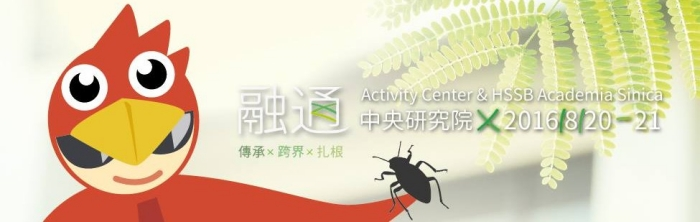
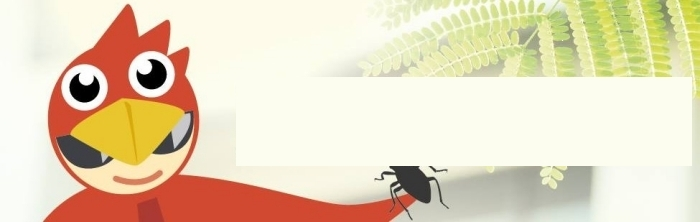
update model

Changed region(s): [[0.33, 0.3243, 0.99, 0.7568], [0.54, 0.6486, 0.63, 0.7568]]

diff --git a/00/index.html b/00/index.html
@@ -1,82 +1,105 @@
 <div style="max-width: 700px; margin: 0 auto; padding: 20px; "><br>
 	<div style="height: 80px; border-bottom: solid 1px; margin-bottom: 10px; ">
-		<div style="float: left; max-width: 347px; ">
-			<p><img src="https://googledrive.com/host/0B51pFKc61f68c0Y0aHVGYVZZNGs" width="100%" alt=""/></p>
+		<div style="float: left; width: 700px; height: 222px; margin-bottom: 20px; ">
+			<p><img src="img/banner.jpg" width="100%" alt=""/></p>
+			<p style="margin-top: -160px; text-align: right; ">
+			<font style="color: #517862; font-size: 36pt; ">啄又逢源 </font>
+			<font style="color: #749875; font-size: 18pt; margin-right: 10px; ">會前快報 第 xx 期</font><br />
+			<font style="color: #AACA86; font-size: 10pt; ">2016 年 x 月 xx 日 發行</font>
+			</p>
 		</div>
-  		<div style="float: right; text-align: right; ">
-			<p style="font-size: 10pt; line-height: 2pt; ">會前 01 號</p>
-			<p style="font-size: 10pt; line-hieght: 2pt; "><a href="http://goo.gl/bLxcyu" target="_blank">如果您無法觀看本電子報，煩請您到此觀看線上網頁版</a></p>
-			<p style="font-size: 10pt; margin-bottom: 2em; line-height: 12pt; ">
+  		<div style="float: right; text-align: right; margin-top: -40px; ">
+			<p style="font-size: 10pt; ">
 				 | <a href="https://www.facebook.com/coscup" target="new">Facebook</a>
 				 | <a href="https://twitter.com/coscup" target="new">twitter</a>
 				 | <a href="http://www.plurk.com/coscup" target="new">Plurk</a>
 				 | <a href="http://coscup.org/" target="new">coscup.org</a>
 				 | 
 			</p>
+			<p style="font-size: 10pt;"><a href="#" target="_blank">如果您無法觀看本電子報，煩請您到此觀看線上網頁版</a></p>
 		</div>
 	</div>
-	<div><img src="https://googledrive.com/host/0B51pFKc61f68SVpPZ2RibFlsS00" width="100%" alt=""/></div>
-	<h1 style="font-size: 22pt; text-align: center; ">十週年：開放文化</h1>
+	<div><img src="img/focus.jpg" width="100%" alt=""/></div>
+	<h1 style="font-size: 22pt; text-align: center; ">焦點新聞焦點新聞焦點新聞焦點新聞</h1>
 	<p style="font-size: 12pt; line-height: 20pt; ">
-		2006 年的 COSCUP，我們從 coder-user 直接接觸的 Open Source 開始，走過了 Device、Web、Mobile、Goverment、Data……，直到了第十年，我們要來談開放文化。<br />
-		十年的時間，開放源碼運動在所有貢獻者的努力下已然開花結果，而下一個十年，COSCUP 將帶領各位更進一步的探討「開源」的核心價值！哪裡是未曾觸及的呢？在這一年，讓我們一起立下新的標竿，成為開放文化的探索者吧！
+	兩百到四百字兩百到四百字兩百到四百字兩百到四百字兩百到四百字兩百到四百字兩百到四百字兩百到四百字兩百到四百字兩百到四百字兩百到四百字兩百到四百字兩百到四百字兩百到四百字兩百到四百字兩百到四百字兩百到四百字兩百到四百字兩百到四百字兩百到四百字兩百到四百字兩百到四百字兩百到四百字兩百到四百字兩百到四百字兩百到四百字兩百到四百字兩百到四百字兩百到四百字兩百到四百字兩百到四百字兩百到四百字兩百到四百字兩百
 	</p>
 	<hr style="margin: 10px; "/>
-	<h1 style="font-size: 22pt; text-align: center; ">議程公佈囉！精彩、豐富，各種想聽！</h1>
+	<h1 style="font-size: 22pt; text-align: center; ">重要消息重要消息重要消息重要消息</h1>
 	<p style="font-size: 12pt; line-height: 20pt; ">
-		今年議程多元豐富，議程有著社會經驗分享、開放政府、法律議題、講個秘訣、Workshop工作坊等大量議程，不論你是什麼職業，來到這裡一定可以找到你喜歡的議程，交到相同嗜好的朋友。如果看了議程表都沒有喜歡的議程，今年也有開放Unconference/開放議程，歡迎去開設喜歡的議程，號召相同志向的同伴讓我們的議程更加多元完整。COSCUP誠摯地邀請您踴躍參與。<br />
-		<br />
-		立即前往看議程：<a href="http://goo.gl/KhNAzd" target="_blank">http://coscup.org/2015/zh-tw/program</a><br />
-		立即前往看Workshop：<a href="http://goo.gl/y6uO7s" target="_blank">http://coscup2015.kktix.cc/events/workshop2015/</a>
+兩百到四百字兩百到四百字兩百到四百字兩百到四百字兩百到四百字兩百到四百字兩百到四百字兩百到四百字兩百到四百字兩百到四百字兩百到四百字兩百到四百字兩百到四百字兩百到四百字兩百到四百字兩百到四百字兩百到四百字兩百到四百字兩百到四百字兩百到四百字兩百到四百字兩百到四百字兩百到四百字兩百到四百字兩百到四百字兩百到四百字兩百到四百字兩百到四百字兩百到四百字兩百到四百字兩百到四百字兩百到四百字兩百到四百字兩百到四百字兩百到四百字兩百到四百字兩百到四百字兩百到四百字兩百到四百字兩百到四百字兩百到四百字兩百到四百字兩百到四百字兩百到四百字兩百到四百字兩百到四百字兩百到四百字兩百到四百字兩百到四百字兩百到四百字兩百到四百字兩百到四百字兩百到四百字兩百到四百字兩百到四百字兩百到四百字兩百到四百字兩百到四百字兩百到四百字兩百到四百字兩百到四百字兩百到四百字兩百到四百字兩百到四百字兩百到四百字兩百到四百字兩百到四	
 	</p>
 	<hr style="margin: 10px; " />
-	<h1 style="font-size: 22pt; text-align: center; ">精選議程</h1>
+	<h1 style="font-size: 22pt; text-align: center; ">精選議程報給你知</h1>
 	<table style="border: 0px; margin-bottom: 20px; "><tr>
-		<td style="padding: 5px; "><img src="https://googledrive.com/host/0B51pFKc61f68T3dMTE1jdnR0QTQ" width="178px" alt=""/></td>
+		<td style="padding: 5px; "><img src="img/speaker1.jpg" width="178px" alt=""/></td>
 		<td>
-			<h2 style="font-size: 17pt; ">jserv - 「封麥」演說：台灣開放原始碼生態圈回顧</h2>
+			<h2 style="font-size: 18pt; ">Speaker - TopicTopicTopicTopicTopic</h2>
 			<p style="font-size: 12pt; line-height: 20pt; ">  
-				什麼？！宅色夫 ( jserv ) 也要「封麥」了？！<br />
-				一個能夠連續 10 年在 COSCUP 分享心得的講者，決定在「封麥」前，簡短回顧台灣開放原始碼生態圈的轉變，以及台灣人在國際開放原始碼專案的投入狀況。<br />
-				身為開源人，這場演講真的錯過可惜！
+			每行至多三十一個全型字元，盡量不要超過八行，也就是兩百五十字。<br />
+			每行至多三十一個全型字元，盡量不要超過八行，也就是兩百五十字。<br />
+			每行至多三十一個全型字元，盡量不要超過八行，也就是兩百五十字。<br />
+			每行至多三十一個全型字元，盡量不要超過八行，也就是兩百五十字。<br />
+			每行至多三十一個全型字元，盡量不要超過八行，也就是兩百五十字。<br />
+			每行至多三十一個全型字元，盡量不要超過八行，也就是兩百五十字。<br />
+			每行至多三十一個全型字元，盡量不要超過八行，也就是兩百五十字。<br />
+			每行至多三十一個全型字元，盡量不要超過八行，也就是兩百五十字。
 			</p>
 		</td>
 	</tr></table>
 	<table style="border: 0px; margin-bottom: 20px; "><tr>
 		<td>
-			<h2 style="font-size: 18pt; ">  clkao - g0v 村情咨文：跨界元年</h2>
+			<h2 style="font-size: 18pt; ">Speaker - TopicTopicTopicTopicTopic</h2>
 			<p style="font-size: 12pt; line-height: 20pt; ">  
-				高村長從2014年開始的村情咨文堂堂邁入第二年！<br />
-				過去一年來 g0v 的進展和成果十分豐碩。<br />
-				一起來看看 g0v 是怎麼讓開放協作的精神逐漸為更多 NGO 與政府單位接受，並且也開始更頻繁的和開放社群互動。<br />
-				身為鄉民的你/妳，怎麼可以不參加？ <br />
-				還沒成為鄉民的你/妳，快來一起加入 g0v 的行列吧！
+			每行至多三十一個全型字元，盡量不要超過八行，也就是兩百五十字。<br />
+			每行至多三十一個全型字元，盡量不要超過八行，也就是兩百五十字。<br />
+			每行至多三十一個全型字元，盡量不要超過八行，也就是兩百五十字。<br />
+			每行至多三十一個全型字元，盡量不要超過八行，也就是兩百五十字。<br />
+			每行至多三十一個全型字元，盡量不要超過八行，也就是兩百五十字。<br />
+			每行至多三十一個全型字元，盡量不要超過八行，也就是兩百五十字。<br />
+			每行至多三十一個全型字元，盡量不要超過八行，也就是兩百五十字。<br />
+			每行至多三十一個全型字元，盡量不要超過八行，也就是兩百五十字。
 			</p>
 		</td>
-		<td style="padding: 5px; "><img src="https://googledrive.com/host/0B51pFKc61f68ZjQ4R3Q0Qnk3b1k" width="178px" alt=""/></td>
+		<td style="padding: 5px; "><img src="img/speaker2.jpg" width="178px" alt=""/></td>
 	</tr></table>
 	<hr style="margin: 10px; " />
-	<a href="http://goo.gl/KhNAzd" target="_blank">點我看更多今年議程</a>
+	<a href="#" target="_blank">點我看更多今年議程</a>
 	<h1 style="font-size: 22pt; text-align: center; ">贊助單位</h1>
 	<table style="border: 0px; margin-bottom: 20px; "><tr>
-		<td style="padding: 5px; "><img src="https://googledrive.com/host/0B51pFKc61f68NmtseXVMUVc1cjA" width="178px" alt=""/></td>
+		<td style="padding: 5px; "><img src="img/sponsor1.jpg" width="178px" alt=""/></td>
 		<td>
-			<h2 style="font-size: 18pt; ">Appier</h2>
+			<h2 style="font-size: 18pt; ">單位名稱單位名稱單位名稱單位名稱</h2>
 			<p style="font-size: 12pt; line-height: 20pt; ">
-				運用人工智慧與巨量數據，Appier 是一跨螢行銷解決方案的科技公司。成立於 2012 年，總部位於台北，在全球各地設有據點，投資人包括紅杉資本，Appier 透過尖端科技協助客戶達成行銷目標，並在全球市場中獲得最佳投資報酬率。<br />
-				Appier網站：<a href="http://goo.gl/scaXad" target="_blank">http://www.appier.com/zh/ </a>
+			每行至多三十一個全型字元，盡量不要超過八行，也就是兩百五十字。<br />
+			每行至多三十一個全型字元，盡量不要超過八行，也就是兩百五十字。<br />
+			每行至多三十一個全型字元，盡量不要超過八行，也就是兩百五十字。<br />
+			每行至多三十一個全型字元，盡量不要超過八行，也就是兩百五十字。<br />
+			每行至多三十一個全型字元，盡量不要超過八行，也就是兩百五十字。<br />
+			每行至多三十一個全型字元，盡量不要超過八行，也就是兩百五十字。<br />
+			每行至多三十一個全型字元，盡量不要超過八行，也就是兩百五十字。<br />
+			每行至多三十一個全型字元，盡量不要超過八行，也就是兩百五十字。
 			</p>
-			<p style="font-size: 12pt; line-height: 20pt; "><a href="http://goo.gl/bLxcyu" target="_blank">Read More...</a></p>
+			<p style="font-size: 12pt; line-height: 20pt; "><a href="#" target="_blank">Read More...</a></p>
 		</td>
 	</tr></table>
 	<table style="border: 0px; margin-bottom: 20px; "><tr>
-		<td style="padding: 5px; "><img src="https://googledrive.com/host/0B51pFKc61f68OUlrOVB5d29jZ2c" width="178px" alt=""/></td>
+		<td style="padding: 5px; "><img src="img/sponsor2.jpg" width="178px" alt=""/></td>
 		<td>
-			<h2 style="font-size: 18pt; ">感謝白銀級贊助夥伴</h2>
-			<p style="font-size: 12pt; line-height: 20pt; ">祐生研究基金會、慧邦科技（神來也） 一直都是支持 COSCUP 的好夥伴，感謝他們收到團隊的企畫後立即回覆要繼續支持第十年的 COSCUP！</p>
-			<p style="font-size: 12pt; line-height: 20pt; "><a href="http://goo.gl/bLxcyu" target="_blank">Read More...</a></p>
+			<h2 style="font-size: 18pt; ">單位名稱單位名稱單位名稱單位名稱</h2>
+			<p style="font-size: 12pt; line-height: 20pt; ">
+			每行至多三十一個全型字元，盡量不要超過八行，也就是兩百五十字。<br />
+			每行至多三十一個全型字元，盡量不要超過八行，也就是兩百五十字。<br />
+			每行至多三十一個全型字元，盡量不要超過八行，也就是兩百五十字。<br />
+			每行至多三十一個全型字元，盡量不要超過八行，也就是兩百五十字。<br />
+			每行至多三十一個全型字元，盡量不要超過八行，也就是兩百五十字。<br />
+			每行至多三十一個全型字元，盡量不要超過八行，也就是兩百五十字。<br />
+			每行至多三十一個全型字元，盡量不要超過八行，也就是兩百五十字。<br />
+			每行至多三十一個全型字元，盡量不要超過八行，也就是兩百五十字。
+			</p>
+			<p style="font-size: 12pt; line-height: 20pt; "><a href="#" target="_blank">Read More...</a></p>
 		</td>
 	</tr></table>
 	<hr />
-	<p style="font-size: 10pt; line-height: 14pt; text-align: center; ">電子報發行單位：COSCUP 2015 籌備團隊</p>
+	<p style="font-size: 10pt; line-height: 14pt; text-align: center; ">啄又逢源會前快報發行單位：COSCUP 2016 籌備團隊</p>
 </div>
